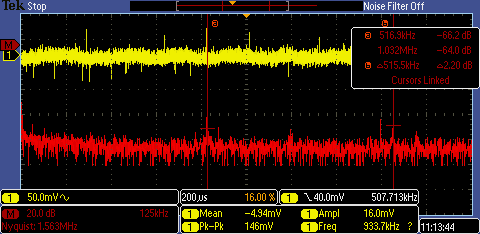
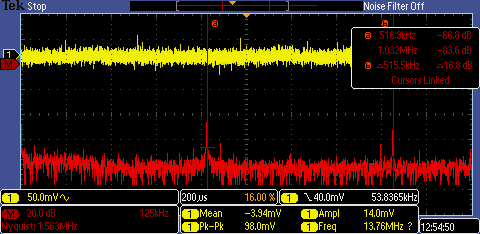
add 1000mA test

diff --git a/README.md b/README.md
@@ -46,7 +46,7 @@ To see if powering the audio gear with dc/dc will be a problem, I tried powering
 
 ## 9v switcher
 
-Results of 9v switcher supplied with 12v from USBC powerbank at 3 different loads.
+Results of 9v switcher supplied with 12v from USBC powerbank at 4 different loads.
 
 ### 50mA load
 ![9v dcdc 50mA](docs/9v-dcdc-50mA.PNG)
@@ -57,7 +57,11 @@ Results of 9v switcher supplied with 12v from USBC powerbank at 3 different load
 ### 500mA load
 ![9v dcdc 500mA](docs/9v-dcdc-500mA.PNG)
 
+### 1000mA load
+![9v dcdc 1000mA](docs/9v-dcdc-1000mA.PNG)
+
 Main spikes look way above audio frequency so hopefully switching noise won't be audible.
+For loads <500mA (most likely for my case) AC pk-pk is between 60 and 100mV.
 
 # bring up
 
